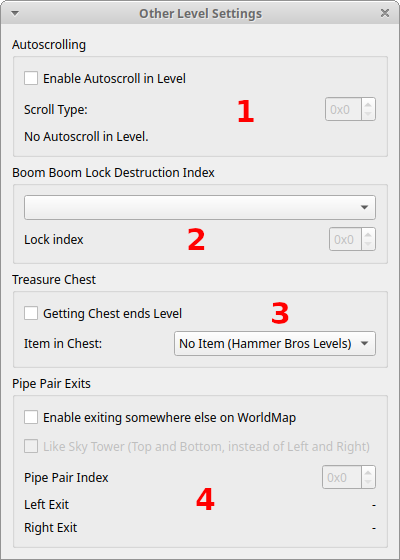
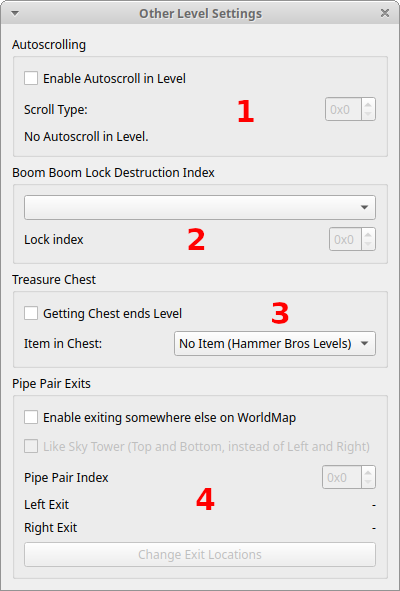
updates foundry manual to describe setting pipe exit pairs

diff --git a/manual/foundry/foundry-manual.md b/manual/foundry/foundry-manual.md
@@ -444,11 +444,16 @@ on multiple Overworlds, if you want. Again, it might be worth looking at World 7
 their settings.
 
 Since Levels don't have exactly one Overworld associated with them, I can't show you the Pipe Pair on a World map to
-better visualize where the positions are. But maybe I can think of something later.
+better visualize where the positions are. They can be used in multiple worlds, but they always lead back to the current
+one.
 
-You also cannot currently edit the Positions of those Pipe Pairs. Same Problem, I would probably want to show you a world
-map, so you can click on the two spots you want, but which one do I show you? The Pipe Pairs can be used on any of the World maps.
-Just ask you? That's a whole 'nother dialog box... Aw man, I hate dialog boxes.
+You can edit them, by clicking the "Change Exit Locations" button. You will be presented with all World maps. Choose the
+one you want to use the Pipe Exit Pair on (the one of the current level, if available, will be selected by default).
+Then click on the position the left exit is supposed to be, after that, click on the spot the right exit is supposed to
+be.
+
+This is a rom-wide change. You will not be asked separately if you want to save these changes. If you save your level,
+you save these changes, if you don't, you don't. If you want to undo the changes, you can do so via the undo-commands.
 
 
 
